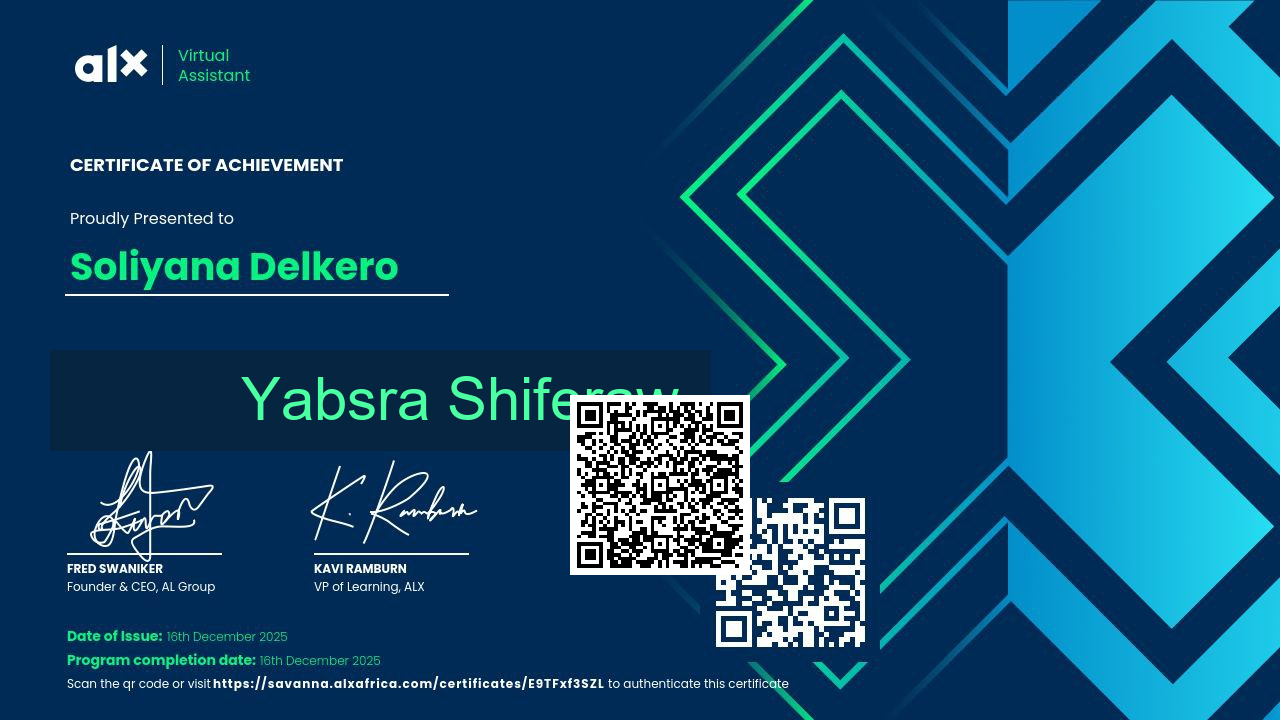
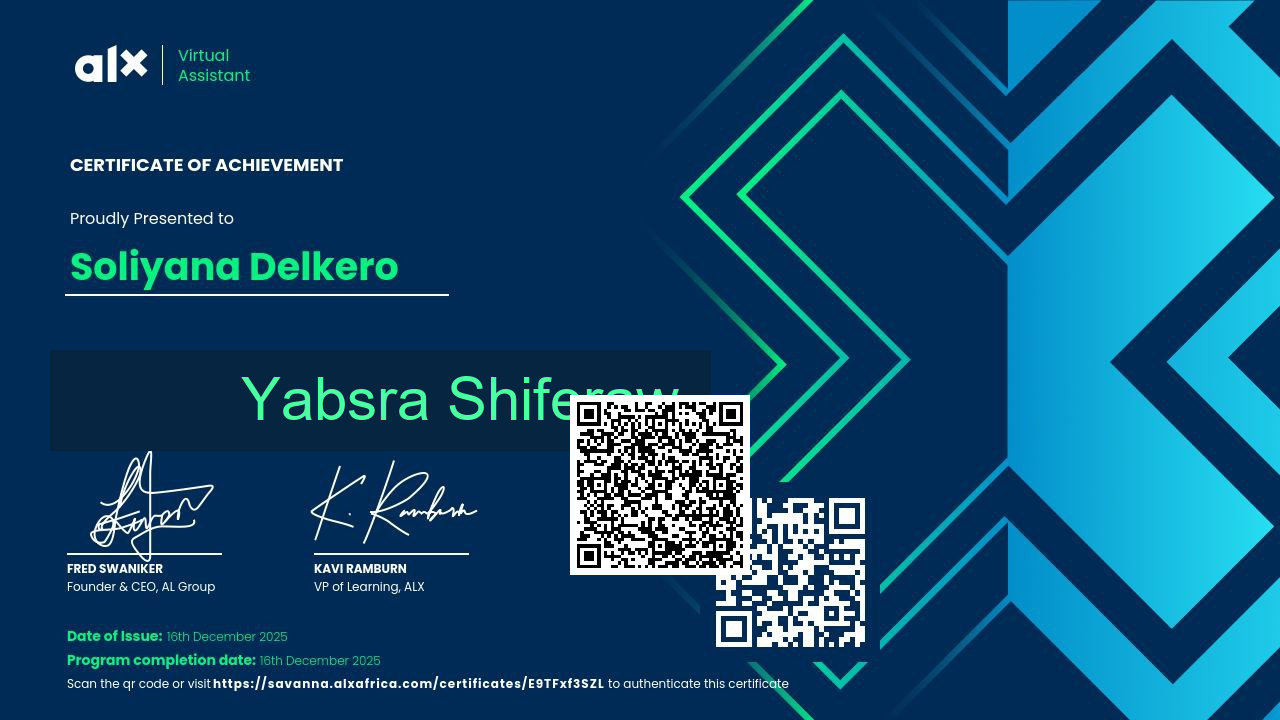
update

Changed region(s): [[0.4375, 0.55, 0.5938, 0.7944]]

diff --git a/generate_certificate.py b/generate_certificate.py
@@ -81,7 +81,7 @@ def main():
     TEMPLATE_PATH = "original_certificate.png"  # Your original certificate
     OUTPUT_PATH = "certificate-yabsra-shiferaw.png"
     NAME = "Yabsra Shiferaw"
-    QR_URL = "https://yourusername.github.io/alx-certificate/certificate.html"  # Update with your GitHub Pages URL
+    QR_URL = "https://emmanuel-alem.github.io/certificate-qr-generator/index.html"  # Update with your GitHub Pages URL
     
     # Check if template exists
     if not os.path.exists(TEMPLATE_PATH):
